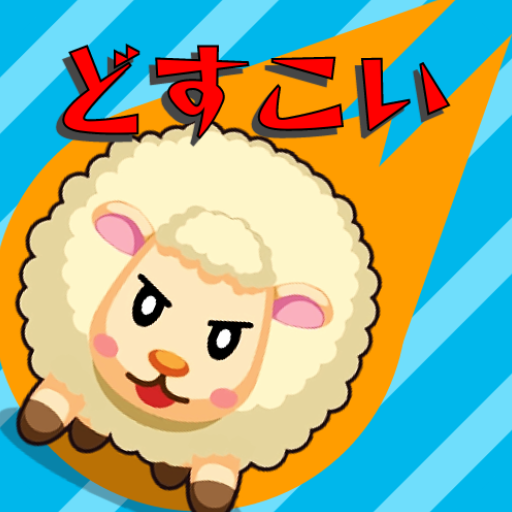
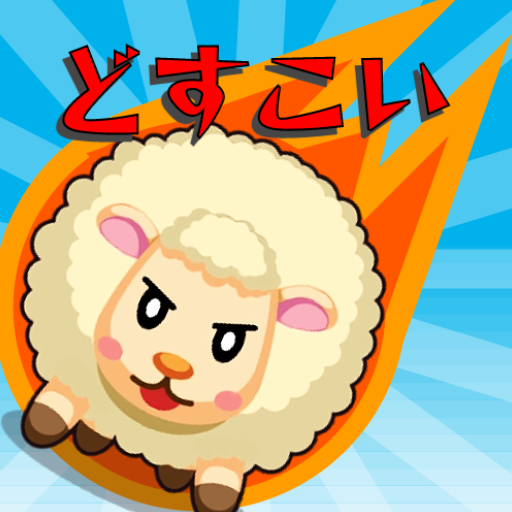
ステージ２敵テクスチャ追加 アイコン２作目に変更

diff --git a/app/src/main/java/game/intern/test/MainActivity2.java b/app/src/main/java/game/intern/test/MainActivity2.java
@@ -168,9 +168,9 @@ public class MainActivity2 extends AppCompatActivity {
         gallLine.m_Texture.setY(gallLine.m_PosY);
 
         Enemies = new ArrayList<>();
-        Enemies.add(new ZigZagEnemy(findViewById(R.id.enemy),(float)screenWidth / 2,5.0f,5.0f, 2, 0,1200.0f,500.0f));
-        Enemies.add(new ZigZagEnemy(findViewById(R.id.enemy1),(float)screenWidth / 7,-5.0f,5.0f, 6, 1,1200.0f,500.0f));
-        Enemies.add(new ZigZagEnemy(findViewById(R.id.enemy2),(float)screenWidth / 5 * 3,5.0f,5.0f, 10, 2,1200.0f,500.0f));
+        Enemies.add(new ZigZagEnemy(findViewById(R.id.enemy),(float)screenWidth / 2,5.0f,5.0f, 2, 0,1200.0f,400.0f));
+        Enemies.add(new ZigZagEnemy(findViewById(R.id.enemy1),(float)screenWidth / 7,-5.0f,5.0f, 6, 1,1200.0f,400.0f));
+        Enemies.add(new ZigZagEnemy(findViewById(R.id.enemy2),(float)screenWidth / 5 * 3,5.0f,5.0f, 10, 2,1200.0f,400.0f));
 
         Enemies.add(new SideEnemy(findViewById(R.id.enemy3),-390.0f, (float)screenHeight /2, 0.0f, 5.0f, 22, 3, 1000.0f,200.0f,(float)screenWidth 	/5, 5.0f));
         Enemies.add(new SideEnemy(findViewById(R.id.enemy4),screenWidth + 126.0f, (float)screenHeight /2, 0.0f, 5.0f, 22, 4, 1000.0f,200.0f,(float)screenWidth 	/9 * 5, -5.0f));

diff --git a/app/src/main/java/game/intern/test/MainActivity4.java b/app/src/main/java/game/intern/test/MainActivity4.java
@@ -459,6 +459,7 @@ public class MainActivity4 extends AppCompatActivity {
                     SharedPreferences.Editor editor = sharedPreferences.edit();
                     editor.putBoolean("isConditionHeaven", true);
                     editor.apply();
+                    isGameclear = true;
                 }
             }
         }

diff --git a/app/src/main/java/game/intern/test/MainActivity3.java b/app/src/main/java/game/intern/test/MainActivity3.java
@@ -459,6 +459,7 @@ public class MainActivity3 extends AppCompatActivity {
                     SharedPreferences.Editor editor = sharedPreferences.edit();
                     editor.putBoolean("isConditionHell", true);
                     editor.apply();
+                    isGameclear = true;
                 }
             }
 

diff --git a/app/src/main/java/game/intern/test/MainActivity5.java b/app/src/main/java/game/intern/test/MainActivity5.java
@@ -457,6 +457,7 @@ public class MainActivity5 extends AppCompatActivity {
                     stageName = "ステージ５";
                     resultText = "クリア！";
                     showResult(stageName, resultText);
+                    isGameclear = true;
                 }
             }
         }
